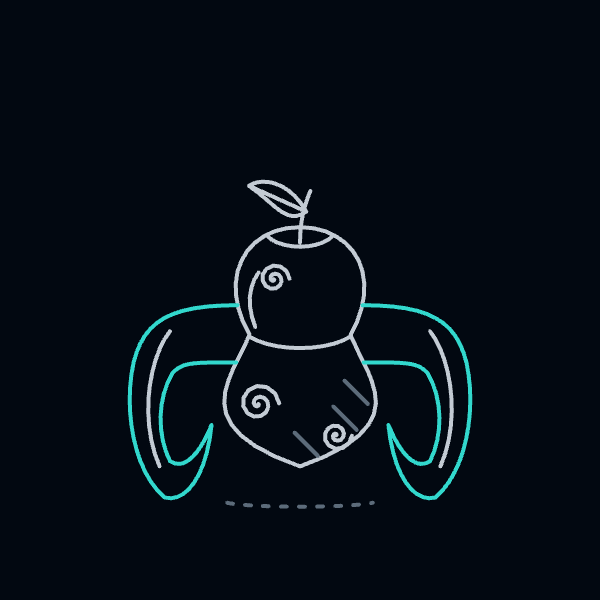
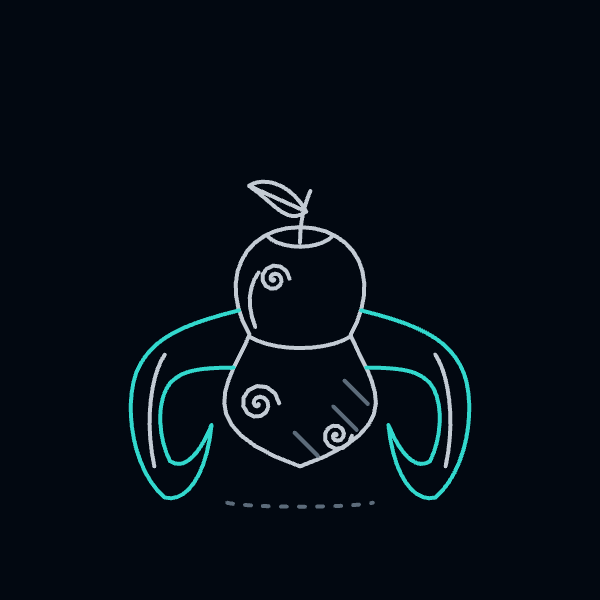
feat(art): drop the mammoth tusk roots so they sweep down (#1124)
Claude-Session: https://claude.ai/code/session_018XDoqAtT67ZkYEKqrsdP9h

Changed region(s): [[0.6, 0.48, 0.81, 0.78], [0.21, 0.48, 0.42, 0.78]]

diff --git a/src/data/series/one-piece/art/fruits/index.ts b/src/data/series/one-piece/art/fruits/index.ts
@@ -734,12 +734,12 @@ const MAMMOTH_BODY: Body = { family: 'gourd', cy: 118 }
  * inside.
  */
 const TUSK: Growth = {
-  from: 102,
-  to: 124,
+  from: 104,
+  to: 126,
   through: [
-    [50, 102],
-    [60, 108],
-    [64, 124],
+    [48, 110],
+    [58, 116],
+    [63, 128],
     [68, 142],
     [64, 166],
     [52, 176],
@@ -751,9 +751,9 @@ const TUSK: Growth = {
     [50, 162],
     [55, 152],
     [55, 138],
-    [49, 128],
-    [45, 124],
-    [42, 124],
+    [50, 132],
+    [46, 128],
+    [42, 126],
   ],
 }
 
@@ -761,7 +761,7 @@ const TUSK: Growth = {
 function tuskRound(way: number): string {
   const at = (dx: number, y: number): string => point(80 + way * dx, y)
 
-  return `M${at(50, 112)} C${at(58, 122)} ${at(62, 146)} ${at(54, 164)}`
+  return `M${at(52, 121)} C${at(57, 128)} ${at(60, 146)} ${at(56, 164)}`
 }
 
 /** The soul fruit: a round, its soul leaving the near shoulder. */
